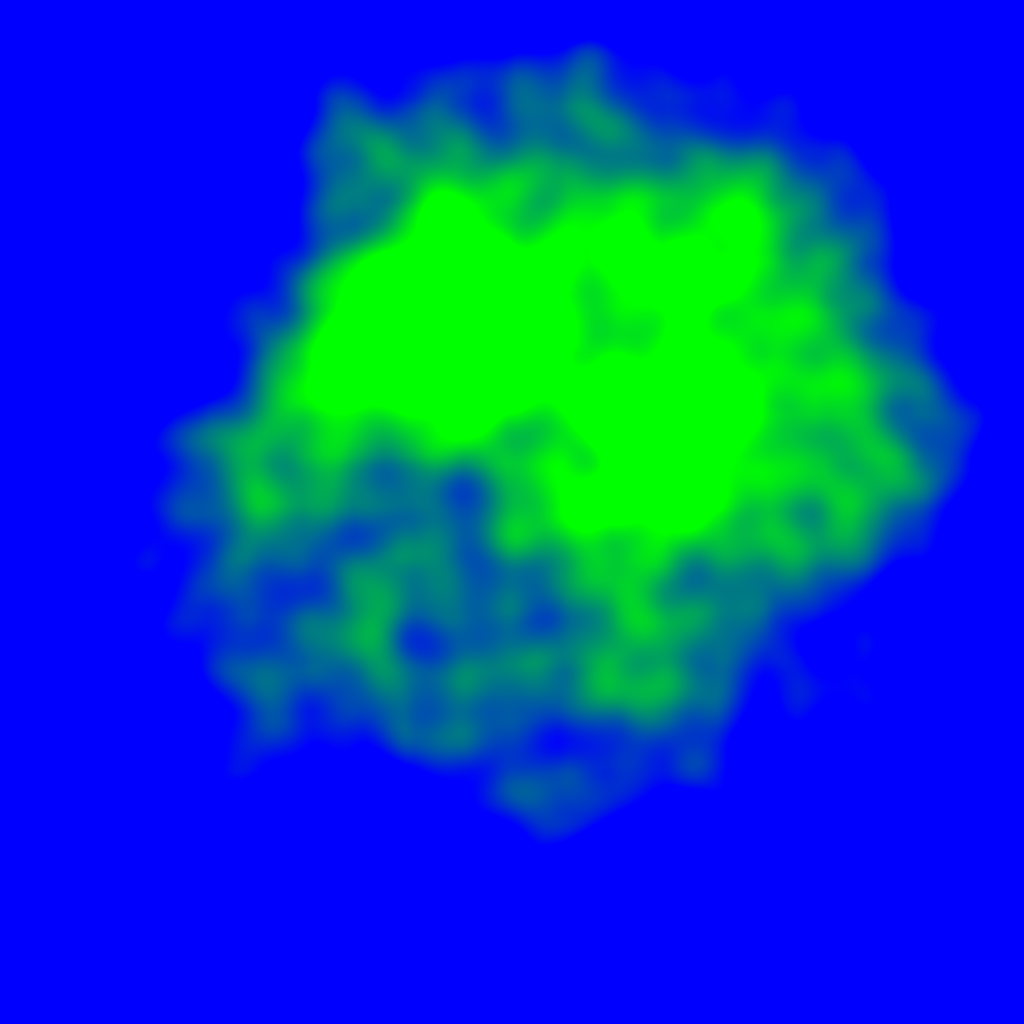
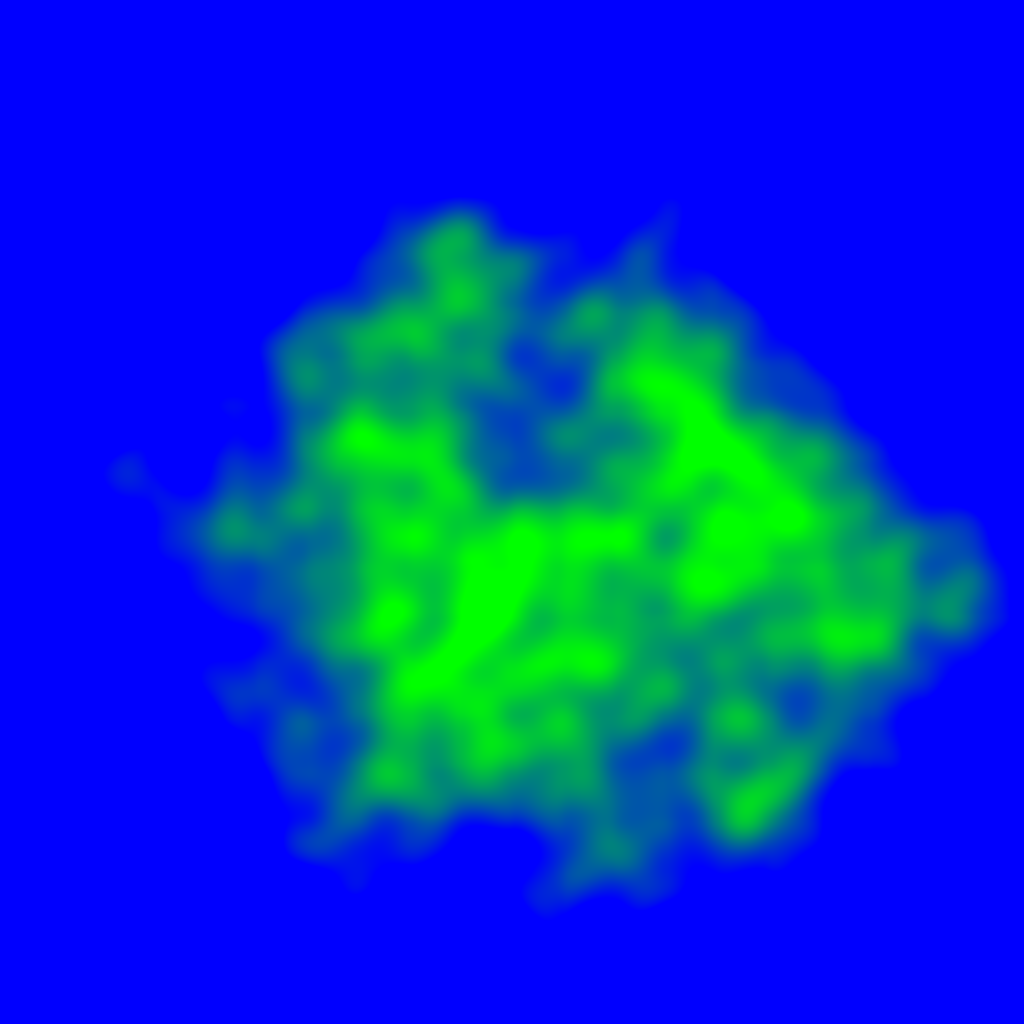
Skybox improvements

diff --git a/feature showcase/ProceduralWorldGenerator/src/main/java/net/mega2223/aguaengine3d/featureshowcase/proceduralworldgenerator/WorldGen.java b/feature showcase/ProceduralWorldGenerator/src/main/java/net/mega2223/aguaengine3d/featureshowcase/proceduralworldgenerator/WorldGen.java
@@ -1,6 +1,7 @@
 package net.mega2223.aguaengine3d.featureshowcase.proceduralworldgenerator;
 
 import net.mega2223.aguaengine3d.featureshowcase.proceduralworldgenerator.shaders.GrassShaderProgram;
+import net.mega2223.aguaengine3d.featureshowcase.proceduralworldgenerator.shaders.SkyShaderProgram;
 import net.mega2223.aguaengine3d.featureshowcase.proceduralworldgenerator.shaders.WaterShaderProgram;
 import net.mega2223.aguaengine3d.graphics.objects.Renderable;
 import net.mega2223.aguaengine3d.graphics.objects.RenderingContext;
@@ -36,6 +37,12 @@ public class WorldGen {
     public static Skybox skybox;
     public static long framesElapsed = 0L;
 
+    public static GrassShaderProgram GRASS_SHADER;
+    public static WaterShaderProgram WATER_SHADER;
+    public static SkyShaderProgram SKY_SHADER;
+    public static Collection<Renderable> readyToUse = new ArrayBlockingQueue<>(32*32);
+    public static List<int[]> toMake = new ArrayList<>();
+
     //MAPA
     //SKYBOX
     //ILHAS
@@ -59,33 +66,21 @@ public class WorldGen {
             double s = Math.sin(camera[3]);
             double c = Math.cos(camera[3]);
             if (GLFW.glfwGetKey(manager.getWindow(), GLFW.GLFW_KEY_W) == GLFW.GLFW_PRESS) {
-                camera[2] += SPEED * c;
-                camera[0] += SPEED * s;
-            }
+                camera[2] += (float) (SPEED * c); camera[0] += (float) (SPEED * s); }
             if (GLFW.glfwGetKey(manager.getWindow(), GLFW.GLFW_KEY_S) == GLFW.GLFW_PRESS) {
-                camera[2] -= SPEED * c;
-                camera[0] -= SPEED * s;
-            }
+                camera[2] -= (float) (SPEED * c); camera[0] -= (float) (SPEED * s); }
             if (GLFW.glfwGetKey(manager.getWindow(), GLFW.GLFW_KEY_A) == GLFW.GLFW_PRESS) {
-                camera[0] += SPEED * c;
-                camera[2] -= SPEED * s;
-            }
+                camera[0] += (float) (SPEED * c); camera[2] -= (float) (SPEED * s); }
             if (GLFW.glfwGetKey(manager.getWindow(), GLFW.GLFW_KEY_D) == GLFW.GLFW_PRESS) {
-                camera[0] -= SPEED * c;
-                camera[2] += SPEED * s;
-            }
+                camera[0] -= (float) (SPEED * c); camera[2] += (float) (SPEED * s); }
             if (GLFW.glfwGetKey(manager.getWindow(), GLFW.GLFW_KEY_Q) == GLFW.GLFW_PRESS) {
-                camera[3] += Math.PI / 90;
-            }
+                camera[3] += (float) (Math.PI / 90); }
             if (GLFW.glfwGetKey(manager.getWindow(), GLFW.GLFW_KEY_E) == GLFW.GLFW_PRESS) {
-                camera[3] -= Math.PI / 90;
-            }
+                camera[3] -= (float) (Math.PI / 90); }
             if (GLFW.glfwGetKey(manager.getWindow(), GLFW.GLFW_KEY_Z) == GLFW.GLFW_PRESS) {
-                camera[1] += SPEED;
-            }
+                camera[1] += SPEED; }
             if (GLFW.glfwGetKey(manager.getWindow(), GLFW.GLFW_KEY_X) == GLFW.GLFW_PRESS) {
-                camera[1] -= SPEED;
-            }
+                camera[1] -= SPEED; }
         });
         manager.addKeypressEvent((window, key, scancode, action, mods) -> {
             if (action != GLFW.GLFW_PRESS) {
@@ -196,13 +191,14 @@ public class WorldGen {
         }
         readyToUse.removeAll(toRemove);
         currentChunk[0] = curX; currentChunk[1] = curZ;
+        float cycle = (.1F * (framesElapsed / 60F));
+        float cycleHeight = (float) -Math.cos(cycle * Math.PI);
+        GRASS_SHADER.setLightDirection((float) Math.sin(cycle * Math.PI), cycleHeight,0);
+        WATER_SHADER.setLightDirection((float) Math.sin(cycle * Math.PI), cycleHeight,0);
+        SKY_SHADER.setLightDirection((float) Math.sin(cycle * Math.PI), cycleHeight,0);
 
-        float cycle = (float) (.05F * (framesElapsed / 60F) + Math.PI/2);
-        GRASS_SHADER.setLightDirection((float) Math.cos(cycle), (float) -Math.sin(cycle),0);
-        WATER_SHADER.setLightDirection((float) Math.cos(cycle), (float) -Math.sin(cycle),0);
         for (int i = 0; i < 3; i++) {
-            //(float) Math.sin(cycle) * .5F
-            skyColor[i] = LinearInterpolator.INSTANCE.interpolate(DARK_SKY[i], BRIGHT_SKY[i], 0);
+            skyColor[i] = LinearInterpolator.INSTANCE.interpolate(DARK_SKY[i], BRIGHT_SKY[i], cycleHeight * 0.5F + 0.5F);
         }
         context.setBackGroundColor(skyColor[0],skyColor[1],skyColor[2]);
     }
@@ -224,11 +220,6 @@ public class WorldGen {
         RenderingManager.printErrorQueue();
         manager.update();
     }
-
-    public static GrassShaderProgram GRASS_SHADER;
-    public static WaterShaderProgram WATER_SHADER;
-    public static Collection<Renderable> readyToUse = new ArrayBlockingQueue<>(32*32);
-    public static List<int[]> toMake = new ArrayList<>();
     public final static Thread modelAssembler = new Thread(() -> {
         while (true) {
             if(!MAIN_THREAD.isAlive()){System.exit(-1);}

diff --git a/feature showcase/ProceduralWorldGenerator/src/main/java/net/mega2223/aguaengine3d/featureshowcase/proceduralworldgenerator/shaders/SkyShaderProgram.java b/feature showcase/ProceduralWorldGenerator/src/main/java/net/mega2223/aguaengine3d/featureshowcase/proceduralworldgenerator/shaders/SkyShaderProgram.java
@@ -13,6 +13,7 @@ public class SkyShaderProgram implements ShaderProgram {
     private final int rotation_matrix_loc;
     private final int translation_matrix_loc;
     private final int iteration_matrix_loc;
+    private final int light_dir_loc;
 
     public SkyShaderProgram(){
         id = ShaderManager.loadShaderFromFiles(new String[]{
@@ -25,6 +26,8 @@ public class SkyShaderProgram implements ShaderProgram {
         rotation_matrix_loc = GL30.glGetUniformLocation(id,"rotation");
         translation_matrix_loc = GL30.glGetUniformLocation(id,"translation");
         iteration_matrix_loc = GL30.glGetUniformLocation(id,"iteration");
+        light_dir_loc = GL30.glGetUniformLocation(id,"lightDir");
+
         MatrixTranslator.generateRotationMatrix(rotationMatrix,0,0,0);
     }
 
@@ -56,6 +59,12 @@ public class SkyShaderProgram implements ShaderProgram {
     @Override
     public void setRenderShadows(int index, boolean s) {
 
+    }
+    public void setLightDirection(float x, float y, float z){
+        float mag = (float) Math.sqrt(x*x + y*y + z*z);
+        x/=mag; y/=mag; z/=mag;
+        GL30.glUseProgram(id);
+        GL30.glUniform3f(light_dir_loc,x,y,z);
     }
     @Override
     public int[] getLightspaceTextureLocs() {

diff --git a/feature showcase/ProceduralWorldGenerator/src/main/java/net/mega2223/aguaengine3d/featureshowcase/proceduralworldgenerator/Skybox.java b/feature showcase/ProceduralWorldGenerator/src/main/java/net/mega2223/aguaengine3d/featureshowcase/proceduralworldgenerator/Skybox.java
@@ -24,6 +24,7 @@ public class Skybox implements Renderable {
         shader = new SkyShaderProgram();
         this.verticesVBO = RenderingManager.genArrayBufferObject(mesh, GL30.GL_STATIC_DRAW);
         this.indicesVBO = RenderingManager.genIndexBufferObject(indices, GL30.GL_STATIC_DRAW);
+        WorldGen.SKY_SHADER = shader;
     }
 
     @Override

diff --git a/feature showcase/ProceduralWorldGenerator/src/main/java/net/mega2223/aguaengine3d/featureshowcase/proceduralworldgenerator/daycycle/CycleKeyframe.java b/feature showcase/ProceduralWorldGenerator/src/main/java/net/mega2223/aguaengine3d/featureshowcase/proceduralworldgenerator/daycycle/CycleKeyframe.java
@@ -1,0 +1,9 @@
+package net.mega2223.aguaengine3d.featureshowcase.proceduralworldgenerator.daycycle;
+
+public interface CycleKeyframe {
+    float getCycleTime();
+    void getSkyColor(float[] dest);
+    void getCloudColor(float[] dest);
+    void getFogData(float [] dest);
+    float getStarAlpha();
+}
